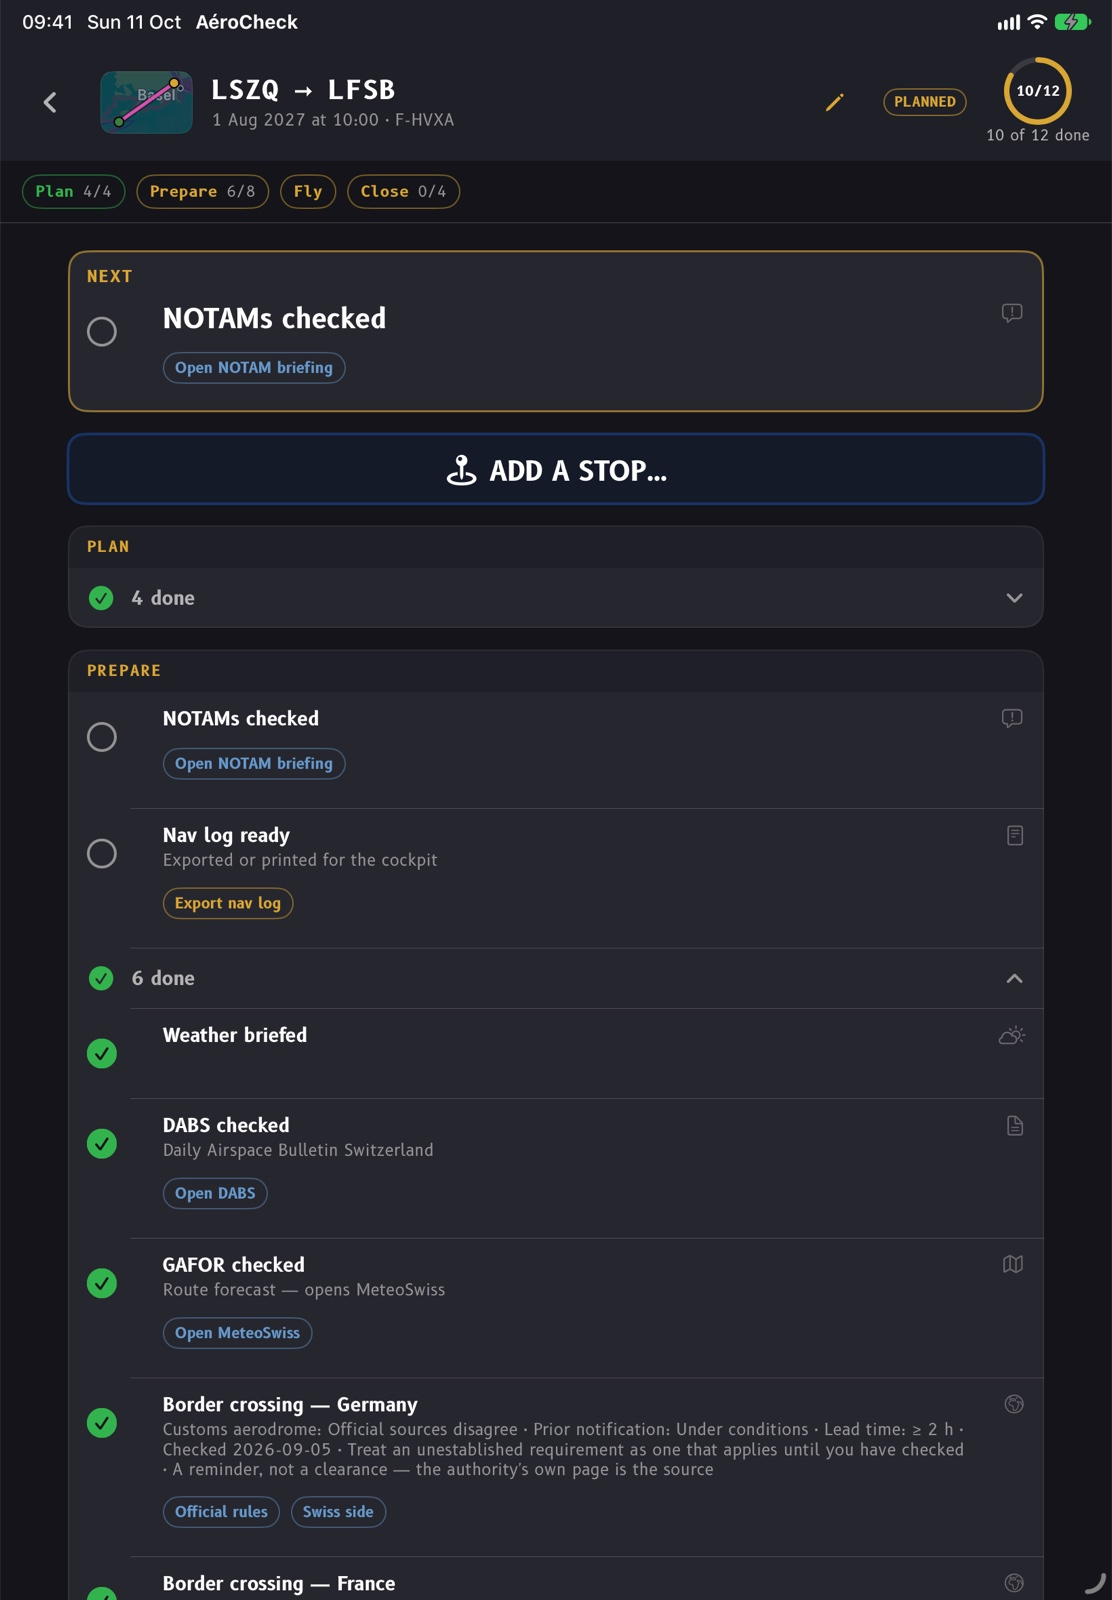
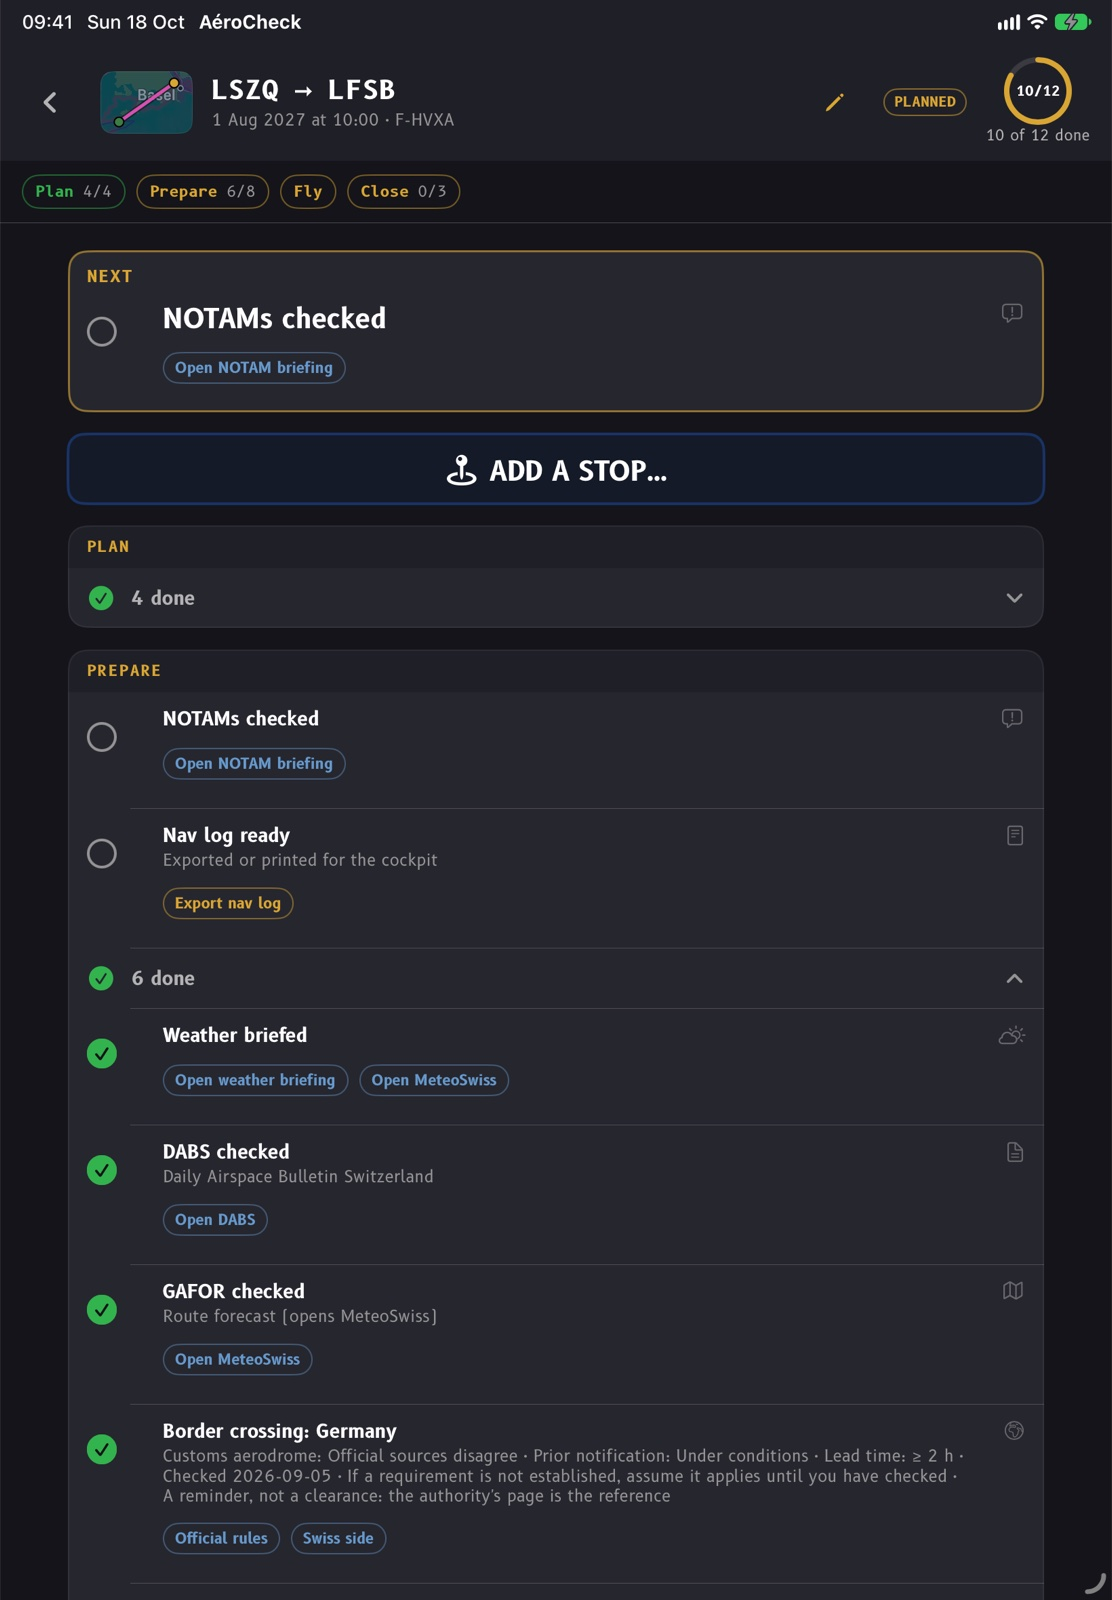
website: the 6.4.0 screenshots, and a row for the Dry run
Recaptured from the 6.4.0 stack (#410), where a screen changed: the iPad
Cockpit (its check now ends on CRUISE CHECK COMPLETE), the flight page and
the close-out on both devices (the debrief is the flight's optional notes,
Close counts 3, "Fees: LFSB"), prepare on both (the weather links, the
reworded border notes), the iPad logbook (Off-block, On-block) and the
iPad route editor (its ⋯ menu). The others were compared with a fresh
capture and kept: only their clocks differed. CAPTURED_FROM is 6.4.0.

The landing gets a row for the Dry run after Close, with a new shot key,
`dryrun`: the guided dry run held on its first final, the coach's card
over the card that chooses the landing. SCREENSHOTS.md says how to
capture it.

diff --git a/src/lib/shots.ts b/src/lib/shots.ts
@@ -12,7 +12,7 @@ export interface Shot { ipad: string; iphone: string; label: string; }
 // The app version the whole set was captured from, or checked against when a release changed none of
 // its screens (6.3.0). Bump it with every recapture: a build warns while the latest release is a newer
 // minor version than this (`warnIfShotsAreOld`).
-export const CAPTURED_FROM = '6.3.0';
+export const CAPTURED_FROM = '6.4.0';
 
 // Each URL carries a hash of the image (`?v=1a2b3c4d`), read at build time, so a recaptured image is
 // a new URL. The file names never change, and Cloudflare lets a browser keep an image for 4 hours:
@@ -42,6 +42,8 @@ export const SHOTS: Record<string, Shot> = {
   closeout:   both('closeout', 'Closing out a flight'),
   route:      both('route', 'The route editor'),
   log:        both('log', 'A flight in the logbook'),
+  // 6.4.0: a guided dry run on its final, the coach's card over the card that chooses the landing.
+  dryrun:     both('dryrun', 'A dry run on the ground'),
   // The iPhone on its side; no iPad counterpart.
   landscape:  { ipad: '', iphone: v6('iphone', 'landscape'), label: 'The iPhone on its side' },
 };

diff --git a/SCREENSHOTS.md b/SCREENSHOTS.md
@@ -43,6 +43,7 @@ shot keys; `--as` names a shot that shares a scene with another.
 | `log` | `flightlog` | Vol d'Alpes in the logbook: track, altitude profile | Logbook tab, tap Vol d'Alpes |
 | `landscape` | `cruisemap` | The iPhone on its side: the Cockpit's column, the map at full height | iPhone only: `--orientation landscapeLeft --as landscape` |
 | `circuits` | `circuits` | Plan › Map close in on LSZQ: its traffic circuit at 2900 ft, the W and E arrival sectors, runway 07/25 | none (since 6.3.0 the scene opens Plan › Map on the national map, Airspace off, Traffic circuits and Arrival & departure routes on, framed on LSZQ about 8 NM across, without a callout) |
+| `dryrun` | none: `AEROCHECK_DRYRUN=guided`, `AEROCHECK_DRYRUN_CHAPTER=6`, `AEROCHECK_DRYRUN_AUTO=1`, `AEROCHECK_DRYRUN_STOP=step:goAround` | The guided dry run held on its first final at LSZQ: the coach's "Try a go-around" card over the card that chooses the landing (6.4.0) | none; about three minutes after launch the autopilot holds there. A flight in progress blocks a dry run: launch a scene that cancels it first (`homeflight`) |
 
 The rules that are not negotiable:
 
@@ -117,6 +118,9 @@ Things that bite:
   the app's window for real (DEBUG hook), whichever way the simulator is held, so nothing needs
   rotating by hand. An iPad refuses it: keep the iPad simulator in portrait.
 - **Without `--mask=ignored`**, a landscape capture can come out with the Dynamic Island drawn in.
+- **The dry run is not a scene**: launch it with the variables in the table (`SIMCTL_CHILD_` before each, and
+  `AEROCHECK_ORIENTATION=portrait` on the iPhone), once, and wait for the hold; the band takes the status bar's place.
+  The script's `--scenes` doesn't drive it, so take and convert the screenshot by hand, as for a gesture.
 - **The status bar override** sets 9:41 and full bars. The app's own clocks (flight time, ETA) use the
   real time: capture in the daytime, or the map's ETA reads 0:50.
 - **A fresh container has no aeronautical data.** Airport data (NOW / NEXT frequencies) and airspace
